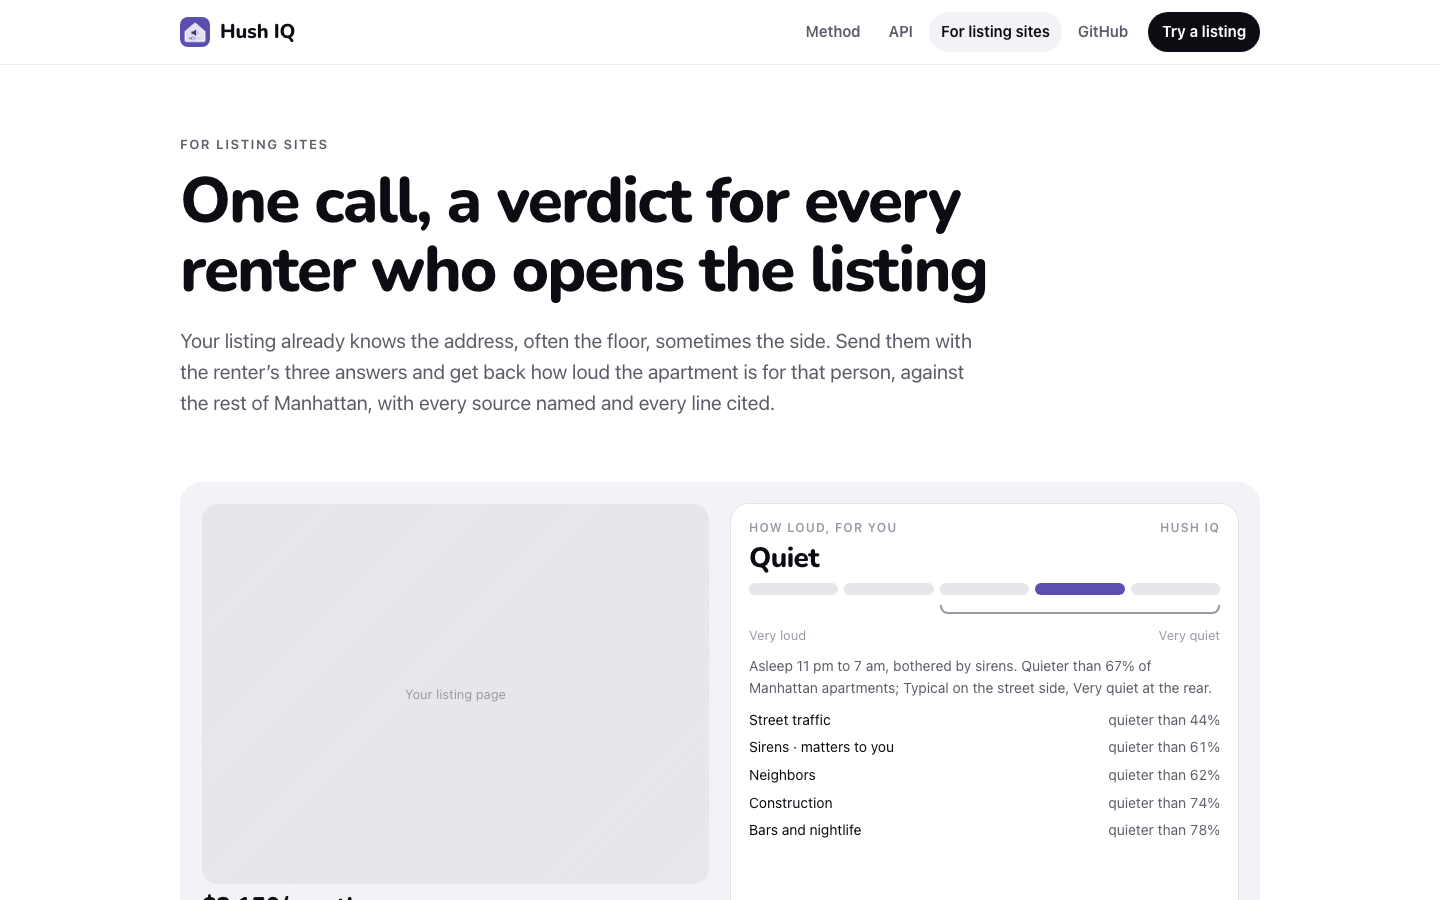
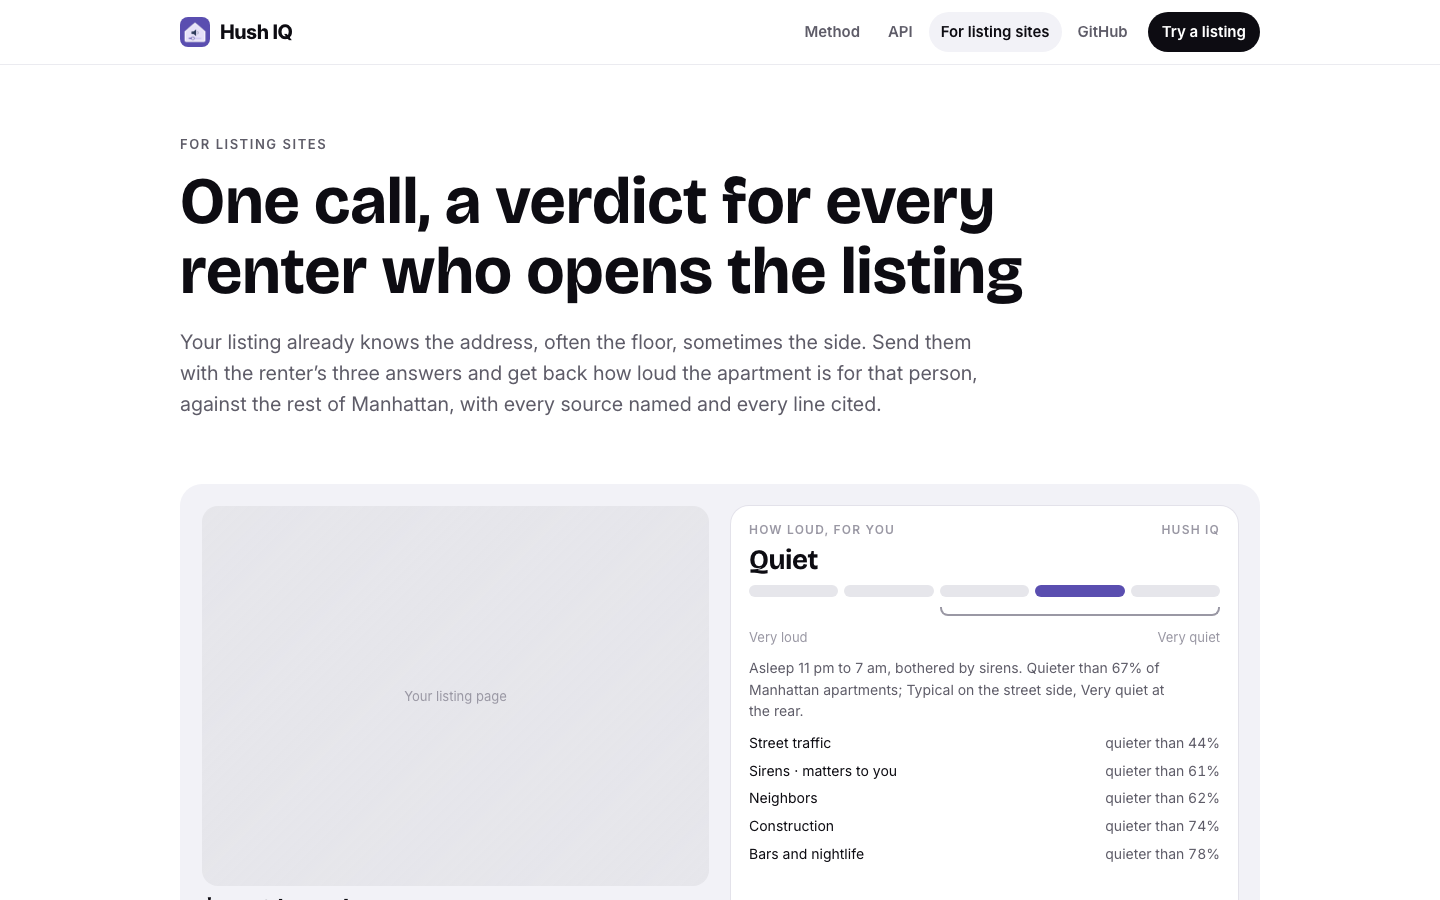
HIQ-23 apps/web: Bricolage Grotesque and Inter in place of the rounded type
Rafa found SF Rounded and Nunito too soft for the site. Headings and numbers
now set in Bricolage Grotesque, text in Inter, both variable and self-hosted
by next/font; the wordmark is Inter so the Q's tail does not read as an
underline. Screenshots retaken.

diff --git a/apps/web/src/app/globals.css b/apps/web/src/app/globals.css
@@ -1,7 +1,8 @@
 /*
  * Hush IQ's web signature, carried over from the iOS app (apps/ios/NoiseScore/Theme.swift): one corner
- * radius (22), one gutter (20), rounded bold numerals, greyscale first, and the accent spent on one thing per
- * screen. On the demo that one thing is the verdict meter. Everything else carries hierarchy through size,
+ * radius (22), one gutter (20), greyscale first, and the accent spent on one thing per screen. The type departs
+ * from the app's SF Rounded on purpose (Rafa, 2026-10-29): Bricolage Grotesque for headings and numbers, Inter
+ * for text. On the demo that one thing is the verdict meter. Everything else carries hierarchy through size,
  * weight, grey and space.
  */
 
@@ -27,8 +28,8 @@
   --gutter: 20px;
   --max: 1120px;
 
-  --display: ui-rounded, 'SF Pro Rounded', var(--font-nunito), system-ui, sans-serif;
-  --body: -apple-system, BlinkMacSystemFont, 'SF Pro Text', 'Segoe UI', var(--font-nunito-sans), system-ui, sans-serif;
+  --display: var(--font-display), 'Helvetica Neue', Arial, system-ui, sans-serif;
+  --body: var(--font-text), -apple-system, BlinkMacSystemFont, 'Segoe UI', system-ui, sans-serif;
   --mono: ui-monospace, 'SF Mono', SFMono-Regular, Menlo, Consolas, monospace;
   --ease: cubic-bezier(0.2, 0.8, 0.2, 1);
 
@@ -109,9 +110,9 @@ h2,
 h3,
 h4 {
   font-family: var(--display);
-  font-weight: 800;
-  letter-spacing: -0.015em;
-  line-height: 1.08;
+  font-weight: 700;
+  letter-spacing: -0.01em;
+  line-height: 1.06;
   margin: 0;
   text-wrap: balance;
 }
@@ -143,7 +144,7 @@ p {
 .num {
   font-family: var(--display);
   font-variant-numeric: tabular-nums;
-  font-weight: 800;
+  font-weight: 700;
 }
 
 .sr-only {
@@ -182,8 +183,8 @@ p {
   align-items: center;
   gap: 10px;
   text-decoration: none;
-  font: 800 20px/1 var(--display);
-  letter-spacing: -0.01em;
+  font: 750 20px/1 var(--body);
+  letter-spacing: -0.025em;
   white-space: nowrap;
 }
 
@@ -505,8 +506,9 @@ p {
 }
 
 .hero h1 {
-  font-size: clamp(42px, 6.4vw, 76px);
-  letter-spacing: -0.03em;
+  font-size: clamp(44px, 6.4vw, 80px);
+  font-weight: 700;
+  letter-spacing: 0;
   line-height: 1.02;
 }
 
@@ -537,7 +539,7 @@ p {
 .hero-proof b {
   color: var(--ink);
   font-family: var(--display);
-  font-weight: 800;
+  font-weight: 700;
   font-size: 22px;
   display: block;
   line-height: 1.1;
@@ -564,7 +566,7 @@ p {
 }
 
 .phone-card .word {
-  font: 800 34px/1.05 var(--display);
+  font: 700 34px/1.05 var(--display);
   letter-spacing: -0.02em;
 }
 
@@ -646,7 +648,7 @@ p {
 }
 
 .three .card .k {
-  font: 800 15px/1 var(--display);
+  font: 700 15px/1 var(--display);
   width: 34px;
   height: 34px;
   border-radius: 50%;
@@ -751,7 +753,7 @@ p {
 }
 
 .step-label .n {
-  font: 800 13px/1 var(--display);
+  font: 700 13px/1 var(--display);
   color: var(--ink-3);
 }
 
@@ -956,7 +958,7 @@ p {
   appearance: none;
   border: 0;
   background: transparent;
-  font: 800 20px/1.2 var(--display);
+  font: 700 20px/1.2 var(--display);
   padding: 0 24px 0 0;
   cursor: pointer;
   width: 100%;
@@ -1166,7 +1168,7 @@ p {
   border-radius: 50%;
   display: grid;
   place-items: center;
-  font: 800 13px/1 var(--display);
+  font: 700 13px/1 var(--display);
   background: var(--ink);
   color: var(--bg);
   position: relative;
@@ -1326,8 +1328,8 @@ p {
 }
 
 .verdict-card .word {
-  font: 800 clamp(40px, 5.4vw, 60px) / 1.02 var(--display);
-  letter-spacing: -0.03em;
+  font: 700 clamp(40px, 5.4vw, 60px) / 1.02 var(--display);
+  letter-spacing: -0.012em;
   margin: 8px 0 18px;
 }
 
@@ -1720,8 +1722,9 @@ p {
 }
 
 .page-hero h1 {
-  font-size: clamp(38px, 5.6vw, 64px);
-  letter-spacing: -0.03em;
+  font-size: clamp(38px, 5.6vw, 66px);
+  font-weight: 700;
+  letter-spacing: 0;
   max-width: 15em;
 }
 
@@ -1831,7 +1834,7 @@ p {
 }
 
 .rules li .k {
-  font: 800 22px/1.1 var(--display);
+  font: 700 22px/1.1 var(--display);
   color: var(--ink-3);
 }
 
@@ -1995,7 +1998,7 @@ details.factor .tag.meta {
 }
 
 details.factor .chev {
-  font: 800 16px/1 var(--display);
+  font: 700 16px/1 var(--display);
   color: var(--ink-3);
   transition: transform 0.2s var(--ease);
 }
@@ -2284,7 +2287,7 @@ table.params td:first-child {
 }
 
 .listing-mock .fake .price {
-  font: 800 24px/1 var(--display);
+  font: 700 24px/1 var(--display);
 }
 
 .embed {
@@ -2308,7 +2311,7 @@ table.params td:first-child {
 }
 
 .embed .word {
-  font: 800 28px/1.05 var(--display);
+  font: 700 28px/1.05 var(--display);
   letter-spacing: -0.02em;
 }
 
@@ -2392,7 +2395,7 @@ table.params td:first-child {
   color: var(--bg);
   display: grid;
   place-items: center;
-  font: 800 15px/1 var(--display);
+  font: 700 15px/1 var(--display);
 }
 
 .steps-list li p {

diff --git a/apps/web/src/app/layout.tsx b/apps/web/src/app/layout.tsx
@@ -1,5 +1,5 @@
 import type { Metadata, Viewport } from 'next';
-import { Nunito, Nunito_Sans } from 'next/font/google';
+import { Bricolage_Grotesque, Inter } from 'next/font/google';
 import type { ReactNode } from 'react';
 
 import { SiteFooter } from '@/components/site-footer';
@@ -8,12 +8,12 @@ import { SiteNav } from '@/components/site-nav';
 import './globals.css';
 
 /**
- * The app's type is SF Pro Rounded for numbers and headings and SF Pro for text. Apple devices get exactly
- * that (`ui-rounded`, `-apple-system` lead the stacks in globals.css); everywhere else falls back to Nunito
- * and Nunito Sans, self-hosted by next/font at build time so no reader's browser asks Google for a font.
+ * Bricolage Grotesque for headings and numbers, Inter for text, both variable and self-hosted by next/font at
+ * build time so no reader's browser asks Google for a font. Both follow the size through their optical-size axes:
+ * the hero gets the display cut, small labels the open one.
  */
-const nunito = Nunito({ subsets: ['latin'], weight: ['700', '800'], display: 'swap', variable: '--font-nunito' });
-const nunitoSans = Nunito_Sans({ subsets: ['latin'], display: 'swap', variable: '--font-nunito-sans' });
+const display = Bricolage_Grotesque({ subsets: ['latin'], display: 'swap', variable: '--font-display', axes: ['opsz'] });
+const text = Inter({ subsets: ['latin'], display: 'swap', variable: '--font-text', axes: ['opsz'] });
 
 export const metadata: Metadata = {
   title: { default: 'Hush IQ: how loud is this apartment, for the way you sleep', template: '%s · Hush IQ' },
@@ -34,7 +34,7 @@ export const viewport: Viewport = {
 
 export default function RootLayout({ children }: { children: ReactNode }) {
   return (
-    <html lang="en" className={`${nunito.variable} ${nunitoSans.variable}`}>
+    <html lang="en" className={`${display.variable} ${text.variable}`}>
       <body>
         <SiteNav />
         <main>{children}</main>
